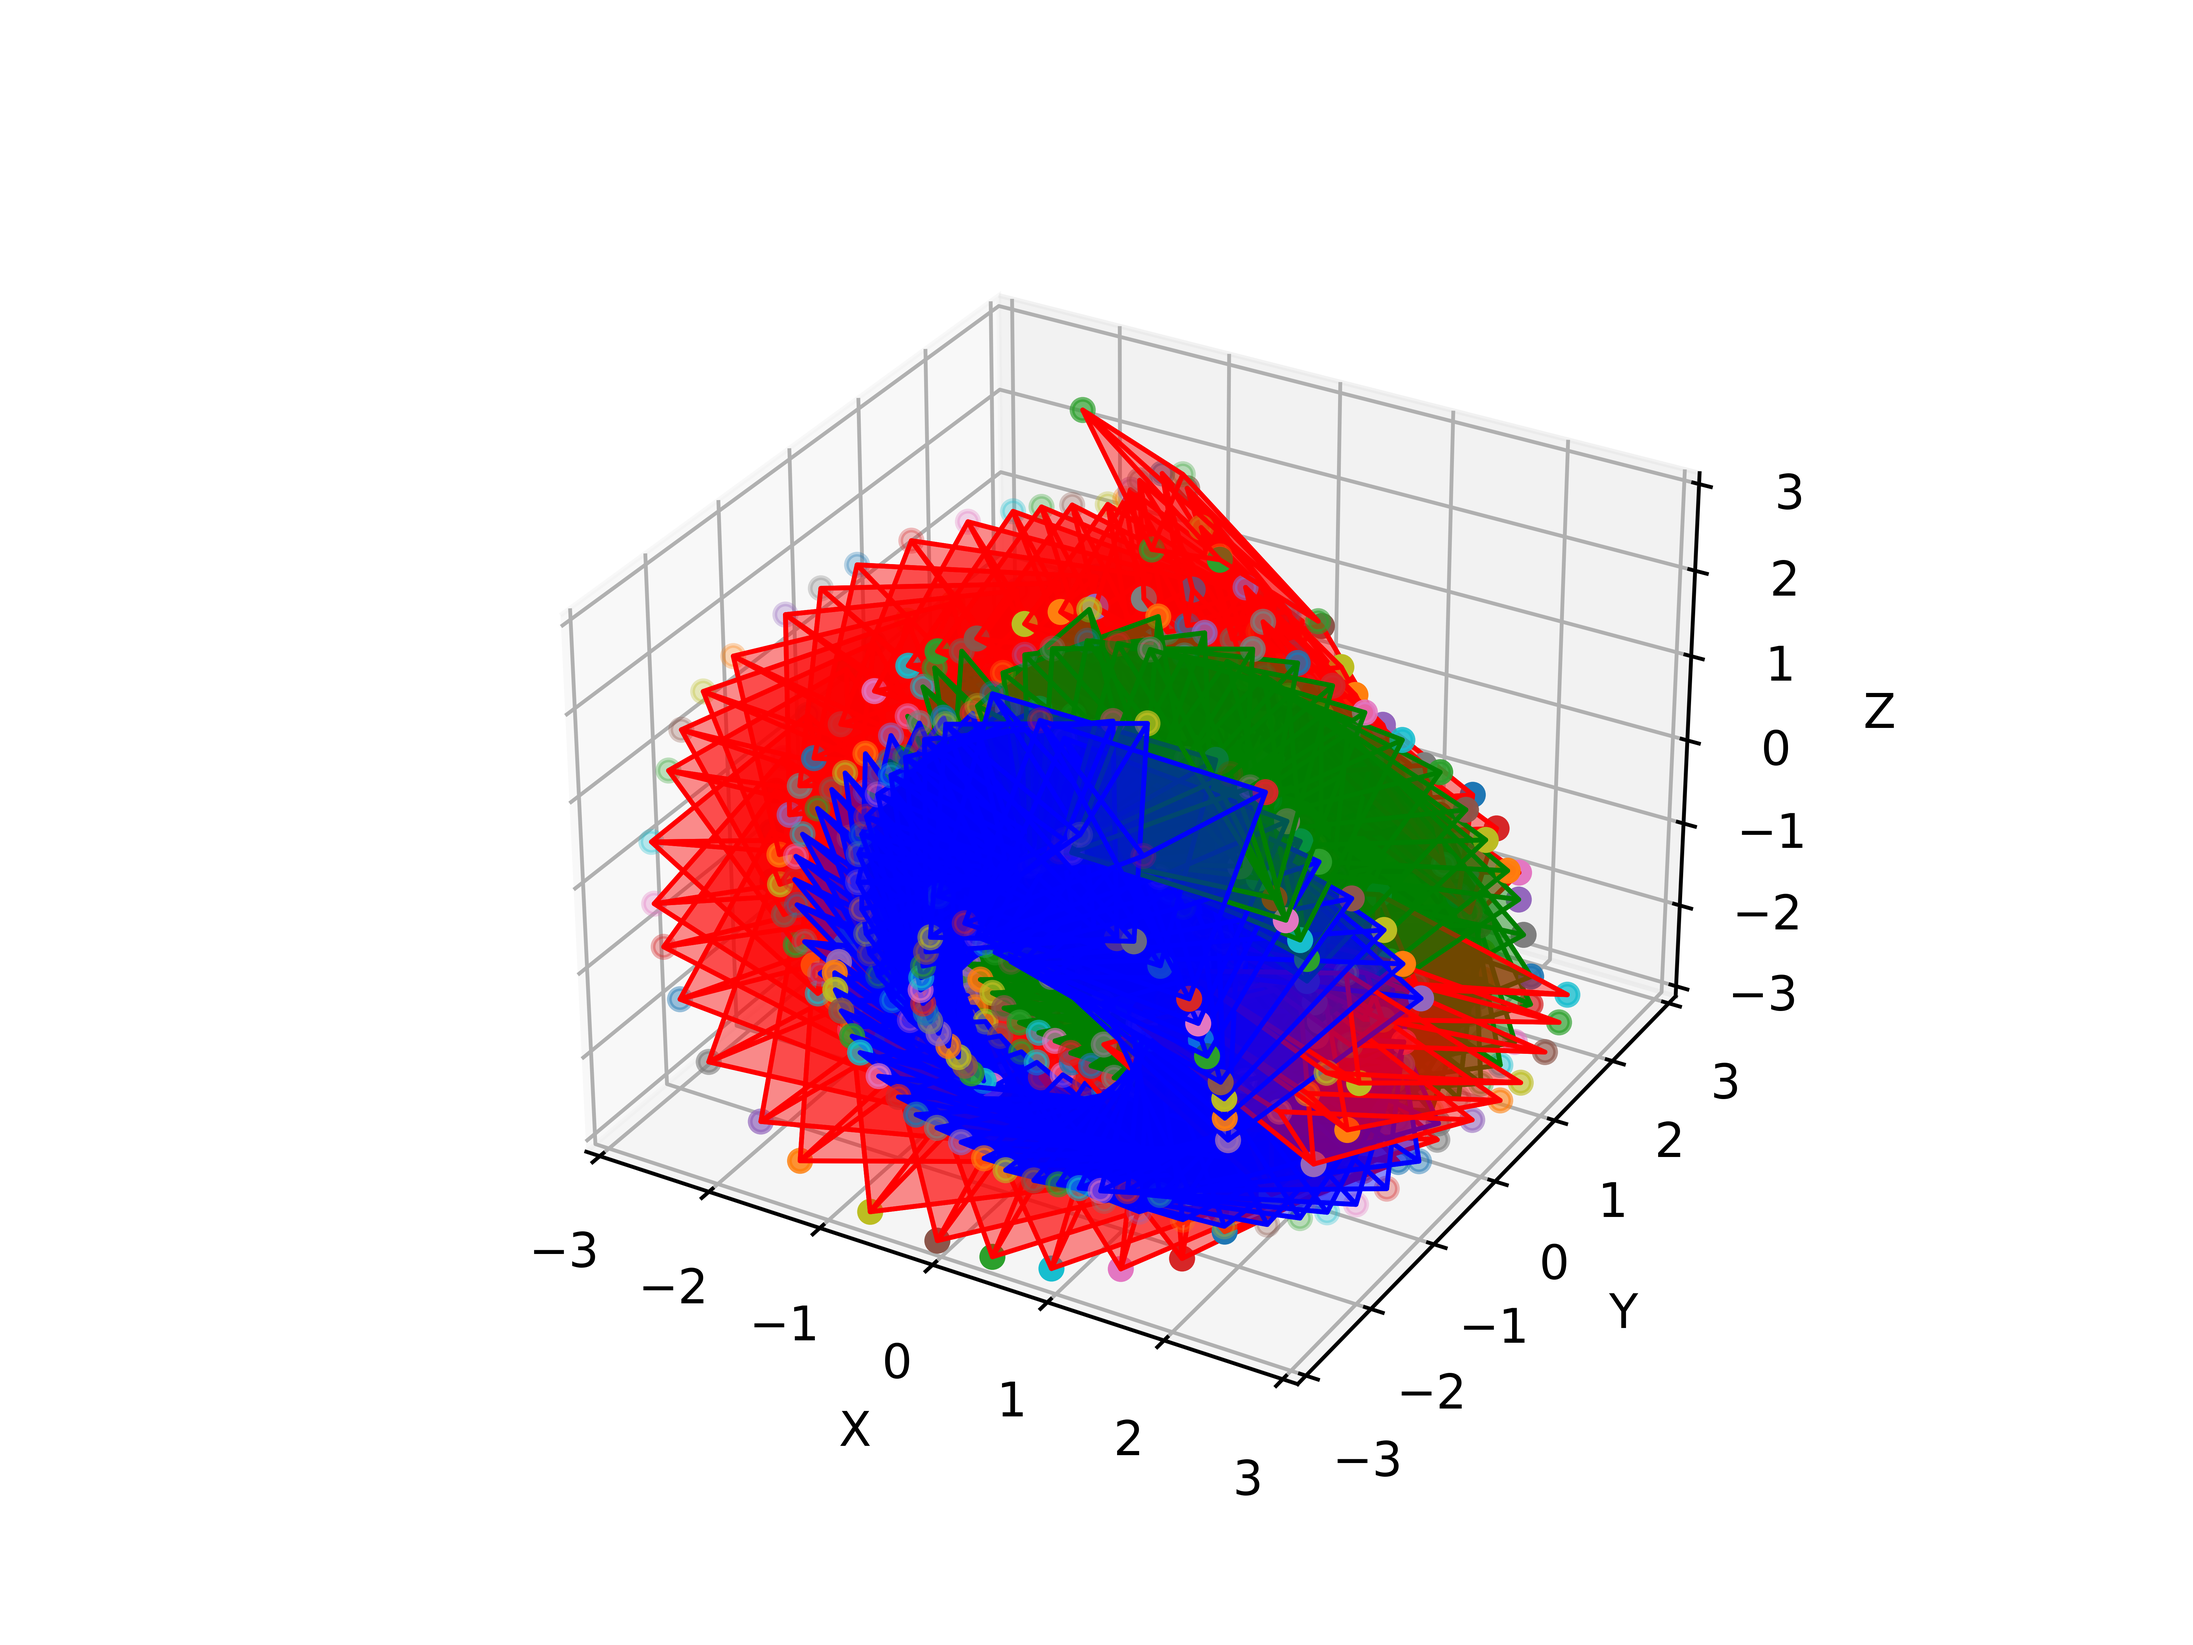
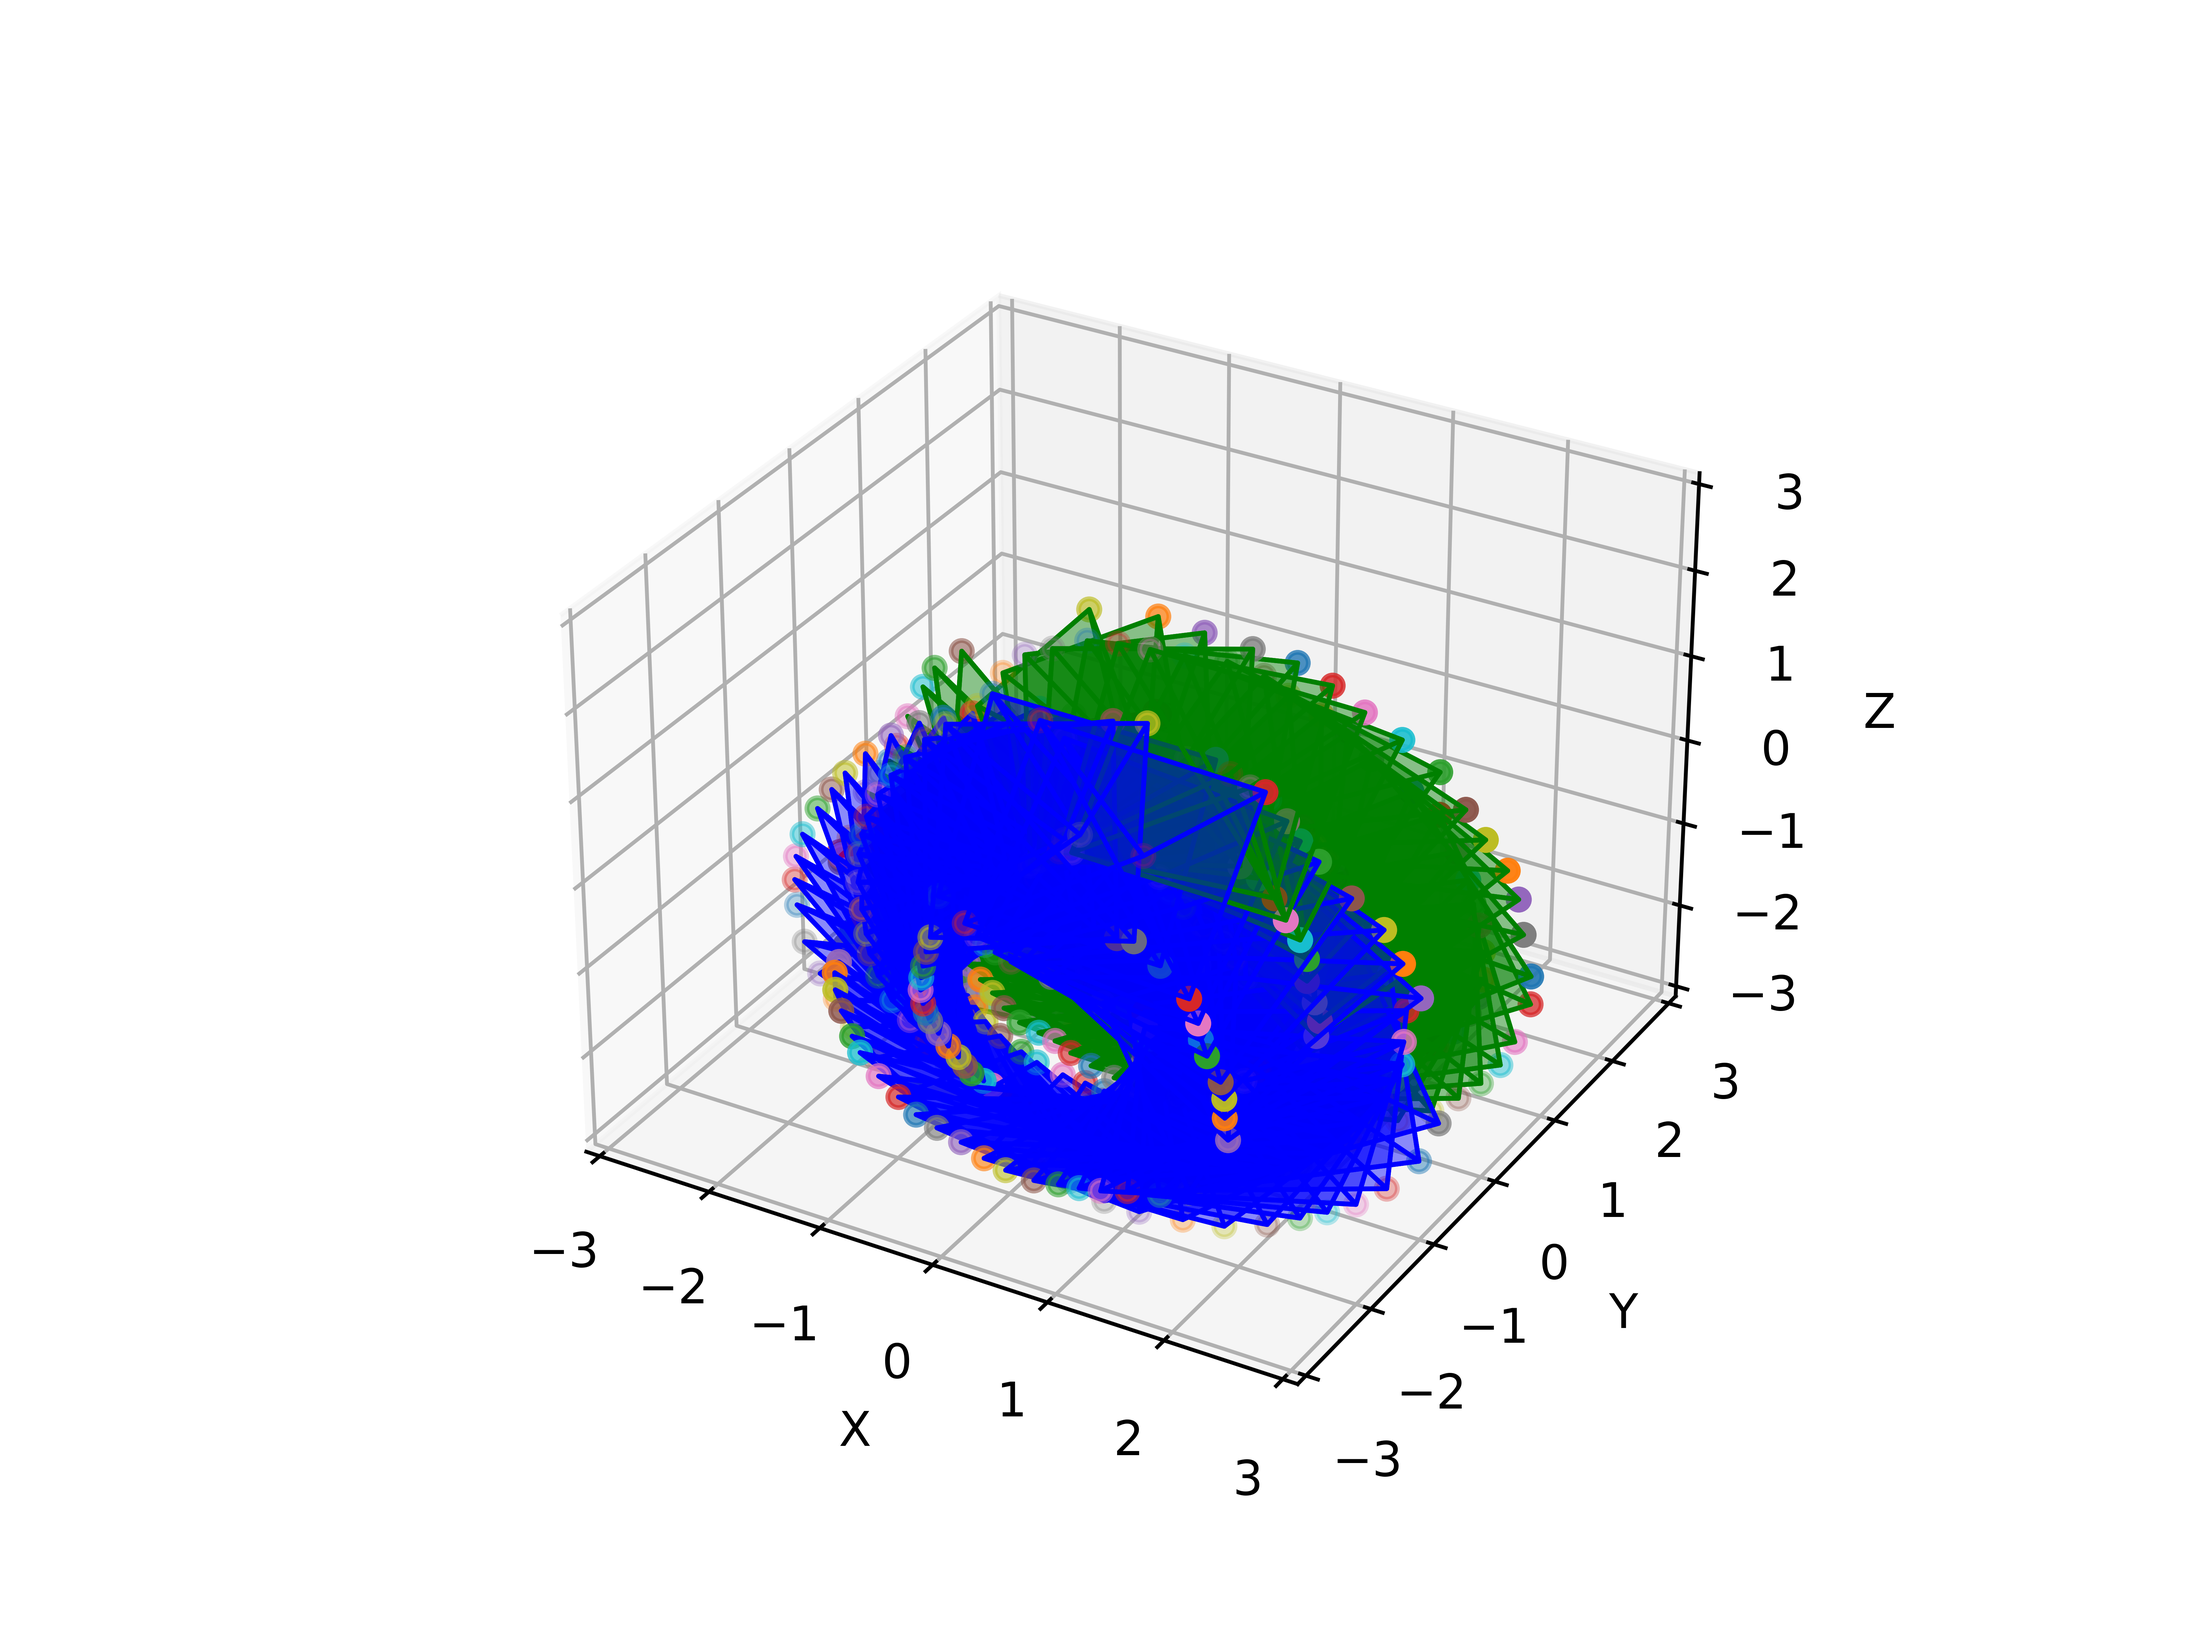
it worksgit add .

Changed region(s): [[0.2812, 0.25, 0.7188, 0.7812], [0.4375, 0.5938, 0.5312, 0.6875], [0.625, 0.4375, 0.6562, 0.4688]]

diff --git a/anchor/backend/visualizer/pose.py b/anchor/backend/visualizer/pose.py
@@ -85,11 +85,14 @@ def visualize_pose_list():
 
         # anchor_to_arkit * anchor = arkit
         # anchor_to_arkit =  arkit * inv(anchor)
-        anchor_to_arkit = np.matmul(arkit_pose, np.linalg.inv(anchor_pose))
+        device_arkit_to_device_opencv = np.diag([1.0, -1.0, -1.0, 1.0])
+        
+        
+        anchor_to_arkit = anchor_pose @ device_arkit_to_device_opencv @ np.linalg.inv(arkit_pose)
         plot_tranform(anchor_to_arkit, 'red', plt3d)
 
         print(anchor_to_arkit[0:3, 3])
-    
+        
 
     plt.savefig((Path(__file__).parent / "out.png").as_posix(), dpi=1000)
 
